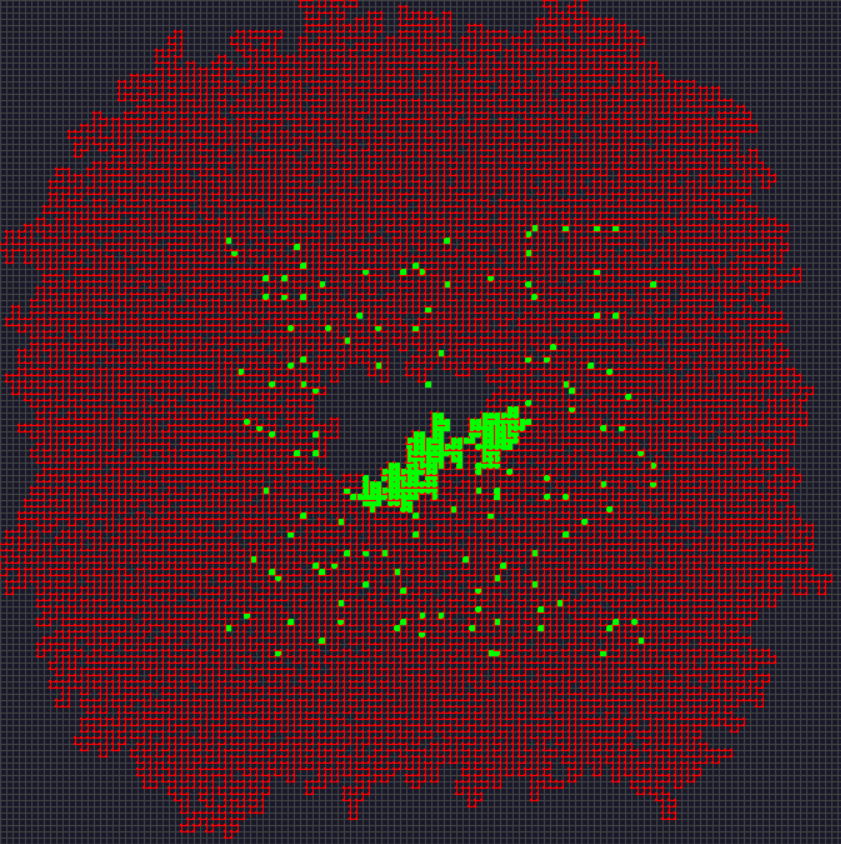
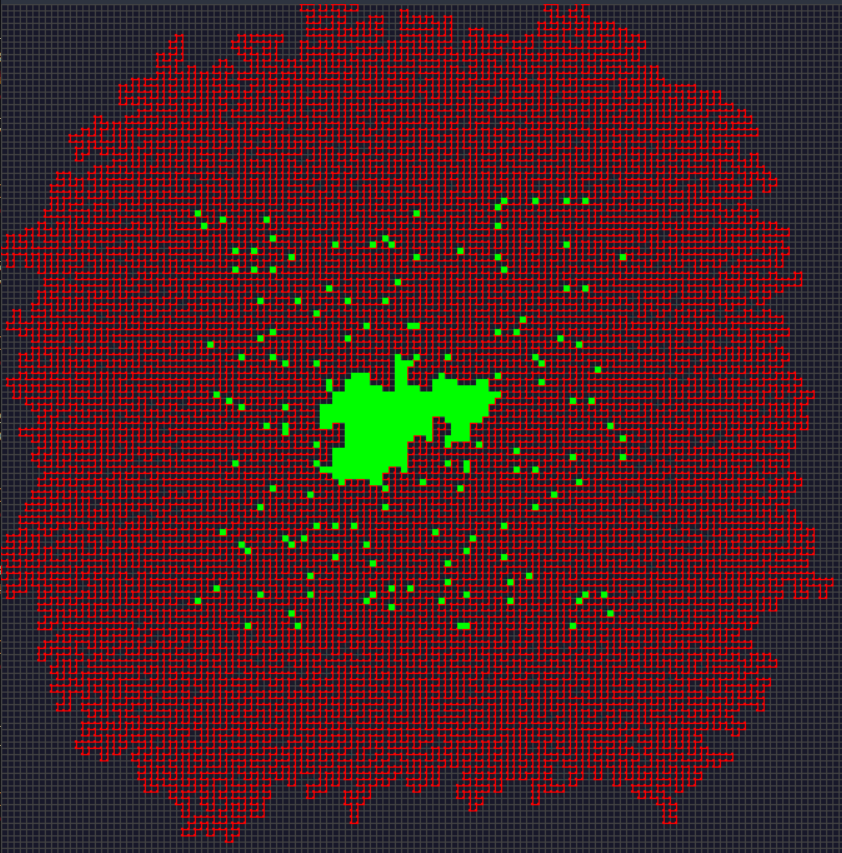
update rendered image

diff --git a/all/day-10/render.py b/all/day-10/render.py
@@ -53,9 +53,11 @@ for pt, neighbors in adj.items():
     pygame.draw.line(screen, pt_color, here, one)
     pygame.draw.line(screen, pt_color, here, two)
 
-    # if contained
-    if pt in contained:
-        pygame.draw.rect(screen, (0, 255, 0), (pt[1]*sz, pt[0]*sz, sz, sz))
+for pt in contained:
+    pt = list(pt)
+    pt[0] -= left_shift
+    pt[1] -= left_shift
+    pygame.draw.rect(screen, (0, 255, 0), (pt[1]*sz, pt[0]*sz, sz, sz))
 
 
 pygame.display.flip()
